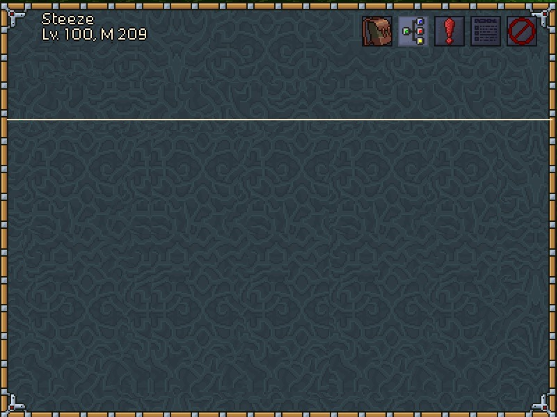
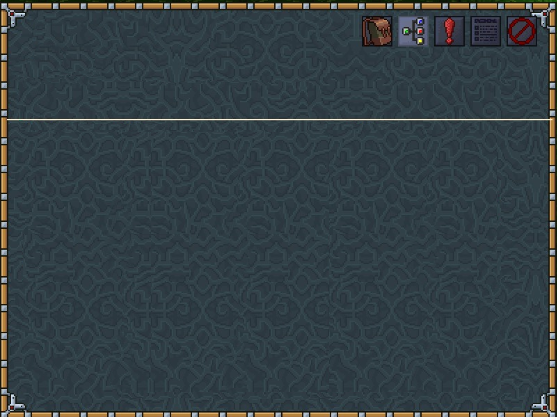
3 changes: Added Version label; added Warlock tree images; code comment cleanup

Changed region(s): [[0.061, 0.0312, 0.2747, 0.1247]]

diff --git a/ChroniCalc/MainForm.Designer.cs b/ChroniCalc/MainForm.Designer.cs
@@ -29,10 +29,12 @@
         private void InitializeComponent()
         {
             this.pnlClass = new System.Windows.Forms.Panel();
-            this.pbClass = new System.Windows.Forms.PictureBox();
             this.cboClass = new System.Windows.Forms.ComboBox();
             this.lblTitle = new System.Windows.Forms.Label();
+            this.pbClass = new System.Windows.Forms.PictureBox();
             this.pnlClassData = new System.Windows.Forms.Panel();
+            this.lblMastery = new System.Windows.Forms.Label();
+            this.lblMasteryCaption = new System.Windows.Forms.Label();
             this.lblLevel = new System.Windows.Forms.Label();
             this.lblLevelCaption = new System.Windows.Forms.Label();
             this.lblSkillPointsRemaining = new System.Windows.Forms.Label();
@@ -44,8 +46,7 @@
             this.btnTree3 = new System.Windows.Forms.Button();
             this.btnTree4 = new System.Windows.Forms.Button();
             this.btnTreeMastery = new System.Windows.Forms.Button();
-            this.lblMastery = new System.Windows.Forms.Label();
-            this.lblMasteryCaption = new System.Windows.Forms.Label();
+            this.lblVersion = new System.Windows.Forms.Label();
             this.pnlClass.SuspendLayout();
             ((System.ComponentModel.ISupportInitialize)(this.pbClass)).BeginInit();
             this.pnlClassData.SuspendLayout();
@@ -60,17 +61,6 @@
             this.pnlClass.Name = "pnlClass";
             this.pnlClass.Size = new System.Drawing.Size(210, 381);
             this.pnlClass.TabIndex = 7;
-            // 
-            // pbClass
-            // 
-            this.pbClass.Anchor = System.Windows.Forms.AnchorStyles.Left;
-            this.pbClass.BackgroundImageLayout = System.Windows.Forms.ImageLayout.None;
-            this.pbClass.Location = new System.Drawing.Point(3, 28);
-            this.pbClass.Name = "pbClass";
-            this.pbClass.Size = new System.Drawing.Size(200, 350);
-            this.pbClass.SizeMode = System.Windows.Forms.PictureBoxSizeMode.StretchImage;
-            this.pbClass.TabIndex = 1;
-            this.pbClass.TabStop = false;
             // 
             // cboClass
             // 
@@ -97,6 +87,17 @@
             this.lblTitle.TabIndex = 8;
             this.lblTitle.Text = "ChroniCalc";
             // 
+            // pbClass
+            // 
+            this.pbClass.Anchor = System.Windows.Forms.AnchorStyles.Left;
+            this.pbClass.BackgroundImageLayout = System.Windows.Forms.ImageLayout.None;
+            this.pbClass.Location = new System.Drawing.Point(3, 28);
+            this.pbClass.Name = "pbClass";
+            this.pbClass.Size = new System.Drawing.Size(200, 350);
+            this.pbClass.SizeMode = System.Windows.Forms.PictureBoxSizeMode.StretchImage;
+            this.pbClass.TabIndex = 1;
+            this.pbClass.TabStop = false;
+            // 
             // pnlClassData
             // 
             this.pnlClassData.BackgroundImage = global::ChroniCalc.Properties.Resources.background;
@@ -114,13 +115,37 @@
             this.pnlClassData.Size = new System.Drawing.Size(560, 420);
             this.pnlClassData.TabIndex = 7;
             // 
+            // lblMastery
+            // 
+            this.lblMastery.AutoSize = true;
+            this.lblMastery.BackColor = System.Drawing.Color.Transparent;
+            this.lblMastery.Font = new System.Drawing.Font("Comic Sans MS", 11F);
+            this.lblMastery.ForeColor = System.Drawing.Color.White;
+            this.lblMastery.Location = new System.Drawing.Point(125, 15);
+            this.lblMastery.Name = "lblMastery";
+            this.lblMastery.Size = new System.Drawing.Size(18, 20);
+            this.lblMastery.TabIndex = 13;
+            this.lblMastery.Text = "0";
+            // 
+            // lblMasteryCaption
+            // 
+            this.lblMasteryCaption.AutoSize = true;
+            this.lblMasteryCaption.BackColor = System.Drawing.Color.Transparent;
+            this.lblMasteryCaption.Font = new System.Drawing.Font("Comic Sans MS", 11F);
+            this.lblMasteryCaption.ForeColor = System.Drawing.Color.White;
+            this.lblMasteryCaption.Location = new System.Drawing.Point(97, 15);
+            this.lblMasteryCaption.Name = "lblMasteryCaption";
+            this.lblMasteryCaption.Size = new System.Drawing.Size(22, 20);
+            this.lblMasteryCaption.TabIndex = 12;
+            this.lblMasteryCaption.Text = "M";
+            // 
             // lblLevel
             // 
             this.lblLevel.AutoSize = true;
             this.lblLevel.BackColor = System.Drawing.Color.Transparent;
             this.lblLevel.Font = new System.Drawing.Font("Comic Sans MS", 11F);
             this.lblLevel.ForeColor = System.Drawing.Color.White;
-            this.lblLevel.Location = new System.Drawing.Point(184, 24);
+            this.lblLevel.Location = new System.Drawing.Point(72, 15);
             this.lblLevel.Name = "lblLevel";
             this.lblLevel.Size = new System.Drawing.Size(18, 20);
             this.lblLevel.TabIndex = 11;
@@ -132,7 +157,7 @@
             this.lblLevelCaption.BackColor = System.Drawing.Color.Transparent;
             this.lblLevelCaption.Font = new System.Drawing.Font("Comic Sans MS", 11F);
             this.lblLevelCaption.ForeColor = System.Drawing.Color.White;
-            this.lblLevelCaption.Location = new System.Drawing.Point(151, 24);
+            this.lblLevelCaption.Location = new System.Drawing.Point(39, 15);
             this.lblLevelCaption.Name = "lblLevelCaption";
             this.lblLevelCaption.Size = new System.Drawing.Size(27, 20);
             this.lblLevelCaption.TabIndex = 10;
@@ -144,7 +169,7 @@
             this.lblSkillPointsRemaining.BackColor = System.Drawing.Color.Transparent;
             this.lblSkillPointsRemaining.Font = new System.Drawing.Font("Comic Sans MS", 11F);
             this.lblSkillPointsRemaining.ForeColor = System.Drawing.Color.White;
-            this.lblSkillPointsRemaining.Location = new System.Drawing.Point(127, 39);
+            this.lblSkillPointsRemaining.Location = new System.Drawing.Point(127, 35);
             this.lblSkillPointsRemaining.Name = "lblSkillPointsRemaining";
             this.lblSkillPointsRemaining.Size = new System.Drawing.Size(18, 20);
             this.lblSkillPointsRemaining.TabIndex = 9;
@@ -156,7 +181,7 @@
             this.lblSkillPointsRemainingCaption.BackColor = System.Drawing.Color.Transparent;
             this.lblSkillPointsRemainingCaption.Font = new System.Drawing.Font("Comic Sans MS", 11F);
             this.lblSkillPointsRemainingCaption.ForeColor = System.Drawing.Color.White;
-            this.lblSkillPointsRemainingCaption.Location = new System.Drawing.Point(39, 39);
+            this.lblSkillPointsRemainingCaption.Location = new System.Drawing.Point(39, 35);
             this.lblSkillPointsRemainingCaption.Name = "lblSkillPointsRemainingCaption";
             this.lblSkillPointsRemainingCaption.Size = new System.Drawing.Size(90, 20);
             this.lblSkillPointsRemainingCaption.TabIndex = 8;
@@ -247,29 +272,15 @@
             this.btnTreeMastery.UseVisualStyleBackColor = false;
             this.btnTreeMastery.Click += new System.EventHandler(this.ShowTree);
             // 
-            // lblMastery
+            // lblVersion
             // 
-            this.lblMastery.AutoSize = true;
-            this.lblMastery.BackColor = System.Drawing.Color.Transparent;
-            this.lblMastery.Font = new System.Drawing.Font("Comic Sans MS", 11F);
-            this.lblMastery.ForeColor = System.Drawing.Color.White;
-            this.lblMastery.Location = new System.Drawing.Point(237, 24);
-            this.lblMastery.Name = "lblMastery";
-            this.lblMastery.Size = new System.Drawing.Size(18, 20);
-            this.lblMastery.TabIndex = 13;
-            this.lblMastery.Text = "0";
-            // 
-            // lblMasteryCaption
-            // 
-            this.lblMasteryCaption.AutoSize = true;
-            this.lblMasteryCaption.BackColor = System.Drawing.Color.Transparent;
-            this.lblMasteryCaption.Font = new System.Drawing.Font("Comic Sans MS", 11F);
-            this.lblMasteryCaption.ForeColor = System.Drawing.Color.White;
-            this.lblMasteryCaption.Location = new System.Drawing.Point(209, 24);
-            this.lblMasteryCaption.Name = "lblMasteryCaption";
-            this.lblMasteryCaption.Size = new System.Drawing.Size(22, 20);
-            this.lblMasteryCaption.TabIndex = 12;
-            this.lblMasteryCaption.Text = "M";
+            this.lblVersion.AutoSize = true;
+            this.lblVersion.Font = new System.Drawing.Font("Rockwell", 15.75F, ((System.Drawing.FontStyle)((System.Drawing.FontStyle.Bold | System.Drawing.FontStyle.Italic))), System.Drawing.GraphicsUnit.Point, ((byte)(0)));
+            this.lblVersion.Location = new System.Drawing.Point(130, 9);
+            this.lblVersion.Name = "lblVersion";
+            this.lblVersion.Size = new System.Drawing.Size(23, 26);
+            this.lblVersion.TabIndex = 9;
+            this.lblVersion.Text = "v";
             // 
             // MainForm
             // 
@@ -277,6 +288,7 @@
             this.AutoScaleMode = System.Windows.Forms.AutoScaleMode.Font;
             this.BackgroundImageLayout = System.Windows.Forms.ImageLayout.None;
             this.ClientSize = new System.Drawing.Size(784, 427);
+            this.Controls.Add(this.lblVersion);
             this.Controls.Add(this.lblTitle);
             this.Controls.Add(this.pnlClass);
             this.Controls.Add(this.pnlClassData);
@@ -314,6 +326,7 @@
         private System.Windows.Forms.Label lblLevelCaption;
         private System.Windows.Forms.Label lblMastery;
         private System.Windows.Forms.Label lblMasteryCaption;
+        private System.Windows.Forms.Label lblVersion;
     }
 }
 

diff --git a/ChroniCalc/ResourceImageTree.Designer.cs b/ChroniCalc/ResourceImageTree.Designer.cs
@@ -63,6 +63,26 @@ namespace ChroniCalc {
         /// <summary>
         ///   Looks up a localized resource of type System.Drawing.Bitmap.
         /// </summary>
+        public static System.Drawing.Bitmap Corruptor {
+            get {
+                object obj = ResourceManager.GetObject("Corruptor", resourceCulture);
+                return ((System.Drawing.Bitmap)(obj));
+            }
+        }
+        
+        /// <summary>
+        ///   Looks up a localized resource of type System.Drawing.Bitmap.
+        /// </summary>
+        public static System.Drawing.Bitmap Demonologist {
+            get {
+                object obj = ResourceManager.GetObject("Demonologist", resourceCulture);
+                return ((System.Drawing.Bitmap)(obj));
+            }
+        }
+        
+        /// <summary>
+        ///   Looks up a localized resource of type System.Drawing.Bitmap.
+        /// </summary>
         public static System.Drawing.Bitmap Dragonkin {
             get {
                 object obj = ResourceManager.GetObject("Dragonkin", resourceCulture);
@@ -146,6 +166,26 @@ namespace ChroniCalc {
         public static System.Drawing.Bitmap ImageNotFound {
             get {
                 object obj = ResourceManager.GetObject("ImageNotFound", resourceCulture);
+                return ((System.Drawing.Bitmap)(obj));
+            }
+        }
+        
+        /// <summary>
+        ///   Looks up a localized resource of type System.Drawing.Bitmap.
+        /// </summary>
+        public static System.Drawing.Bitmap Lich {
+            get {
+                object obj = ResourceManager.GetObject("Lich", resourceCulture);
+                return ((System.Drawing.Bitmap)(obj));
+            }
+        }
+        
+        /// <summary>
+        ///   Looks up a localized resource of type System.Drawing.Bitmap.
+        /// </summary>
+        public static System.Drawing.Bitmap Reaper {
+            get {
+                object obj = ResourceManager.GetObject("Reaper", resourceCulture);
                 return ((System.Drawing.Bitmap)(obj));
             }
         }

diff --git a/ChroniCalc/SkillButton.cs b/ChroniCalc/SkillButton.cs
@@ -98,7 +98,6 @@ namespace ChroniCalc
             }
             else if (e.Button == MouseButtons.Right && this.level > 0)
             {
-                //TODO don't let user de-level if it's going to set level to 0 and this skill is a needed prereq
                 //Decrease the level
                 this.level--;
 
@@ -204,14 +203,10 @@ namespace ChroniCalc
 
         private void PbSkillIcon_MouseLeave(object sender, EventArgs e)
         {
-            //Only hide the panel if the mouse truly is no longer focused on the tooltip or pnskillicon
-            //if (!(pbSkillIcon.Focused && this.skillTooltipPanel.ContainsFocus)) //TODOSSG
-            //{
-                if (this.skillTooltipPanel.Visible)
-                {
-                    this.skillTooltipPanel.Visible = false;
-                }
-            //}
+            if (this.skillTooltipPanel.Visible)
+            {
+                this.skillTooltipPanel.Visible = false;
+            }
         }
 
         private Point GetTooltipLocation()

diff --git a/ChroniCalc/MainForm.cs b/ChroniCalc/MainForm.cs
@@ -42,6 +42,9 @@ namespace ChroniCalc
         {
             InitializeComponent();
 
+            //Updates the version as shown on screen
+            lblVersion.Text = "v" + this.ProductVersion;
+
             //Set the # of available skill points that can be spent to build the character
             lblSkillPointsRemaining.Text = SKILL_POINTS_MAX.ToString();
 
@@ -509,8 +512,6 @@ namespace ChroniCalc
                 treeButton.BackgroundImage = null;
                 treeButton.Tag = "";
             }
-
-            //TODOSSG Clear the Character Level and Skill Points Remaining
         }
 
         private void LoadTreeIconButtonImage(ResourceManager resourceManager, Button button, string name)

diff --git a/ChroniCalc/SkillSelectButton.cs b/ChroniCalc/SkillSelectButton.cs
@@ -83,14 +83,10 @@ namespace ChroniCalc
 
         private void SkillSelectButton_MouseLeave(object sender, EventArgs e)
         {
-            //Only hide the panel if the mouse truly is no longer focused on the tooltip or pnskillicon
-            //if (!(pbSkillIcon.Focused && this.skillTooltipPanel.ContainsFocus)) //TODOSSG
-            //{
             if (this.skillTooltipPanel.Visible)
             {
                 this.skillTooltipPanel.Visible = false;
             }
-            //}
         }
 
         private Point GetTooltipLocation() //TODOSSG duplicate code of SkillButton.GetTooltipLocation
